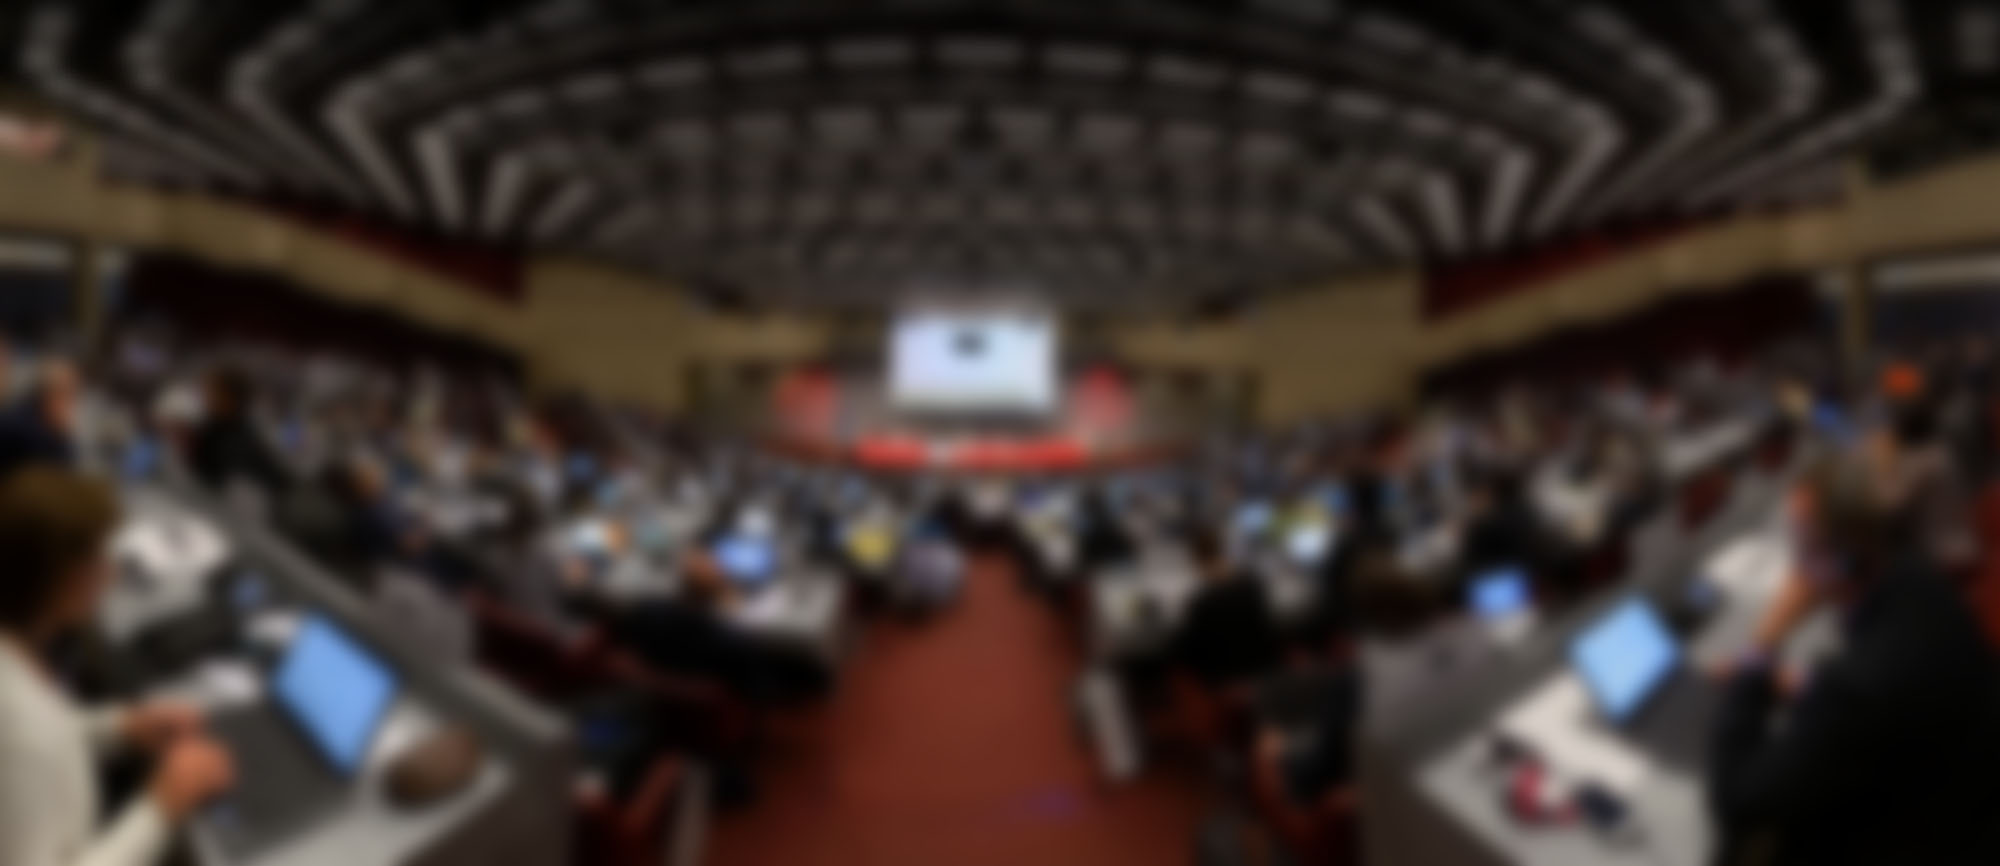
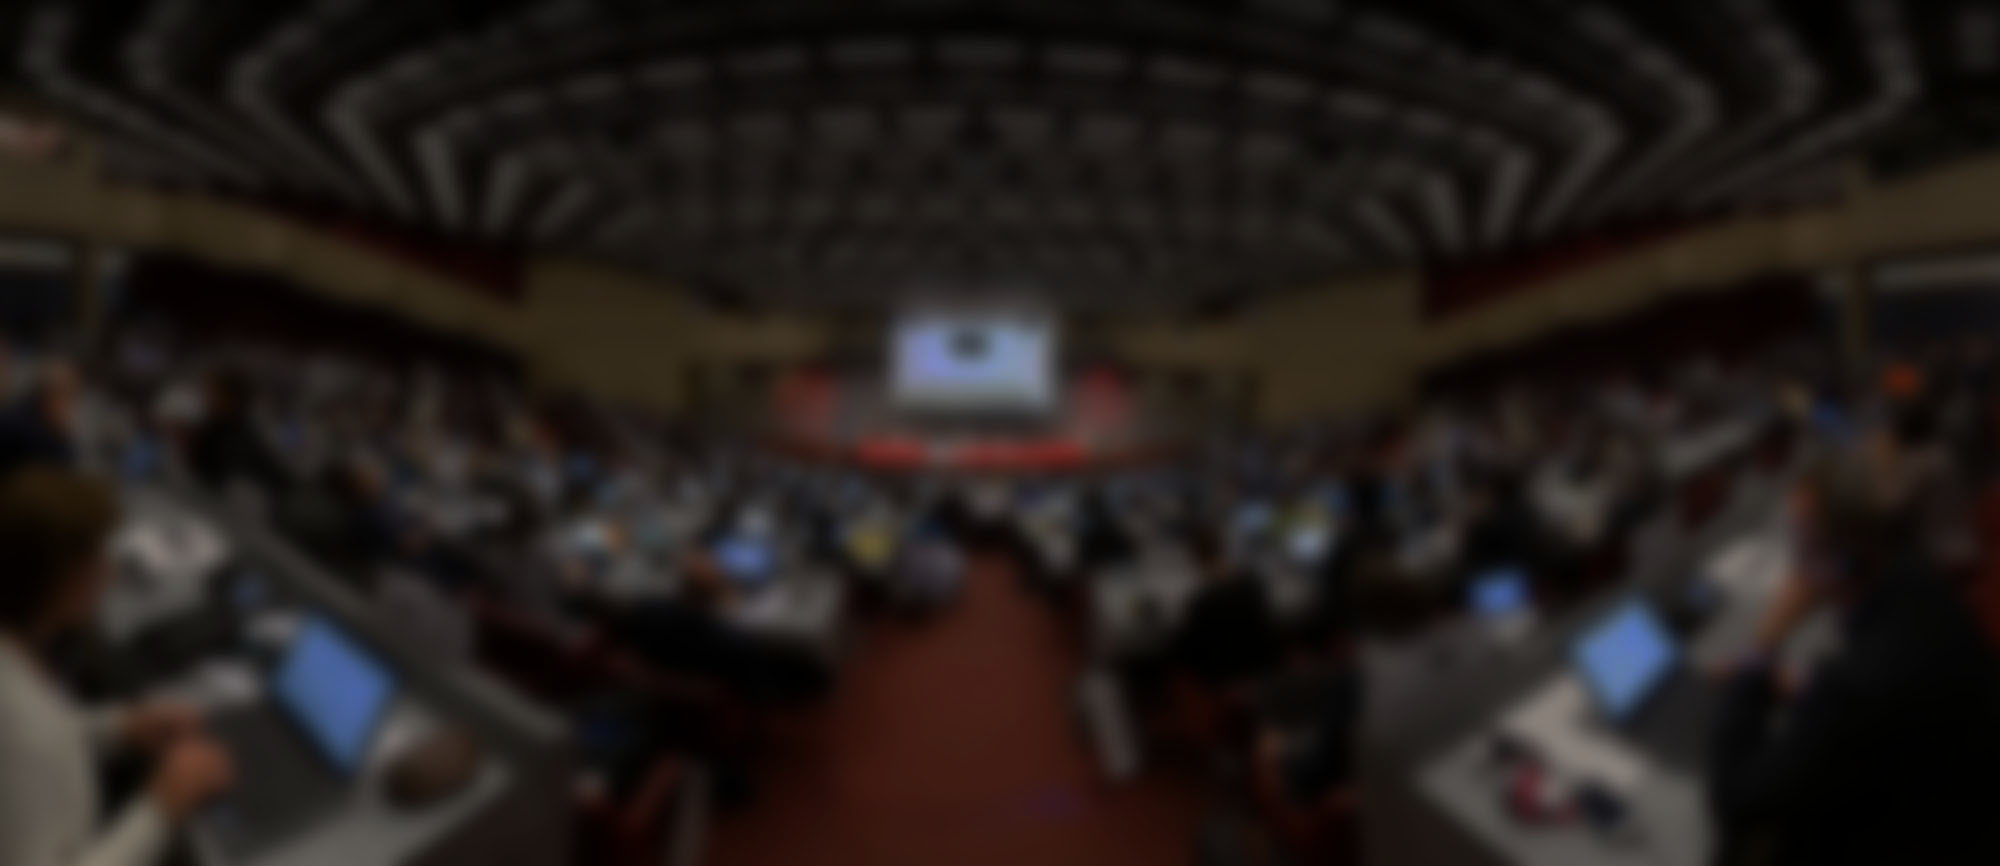
Stylize the first page with the conf slogan

diff --git a/index.html b/index.html
@@ -47,9 +47,10 @@
         <div class="carousel-inner">
           <div class="carousel-item first-slide active">
             <div class="container">
-              <div class="carousel-caption text-left">
-                <h1>Fajna konferencja dla IT i nie tylko</h1>
-                <p>Zielona Góra, 19 maja 2017</p>
+              <div class="carousel-caption">
+                
+                <h1><img src="res/logo-big.png" /> Greenfield</h1>
+                <p>Konferencja IT<br />Zielona Góra, 19 maja 2017</p>
                 <p><a class="btn btn-lg btn-primary" href="#" role="button">KUP BILET</a></p>
               </div>
             </div>

diff --git a/main.css b/main.css
@@ -64,8 +64,15 @@ header .navbar.shrink {
 }
 
 .carousel-caption {
-  bottom: 3rem;
+  top: 30%;
+  text-align: center;
   z-index: 10;
+  font-family: Myriad Pro;
+  font-weight: normal;
+}
+
+.carousel-caption h1 {
+  font-size: 5rem;
 }
 
 .carousel-item {
